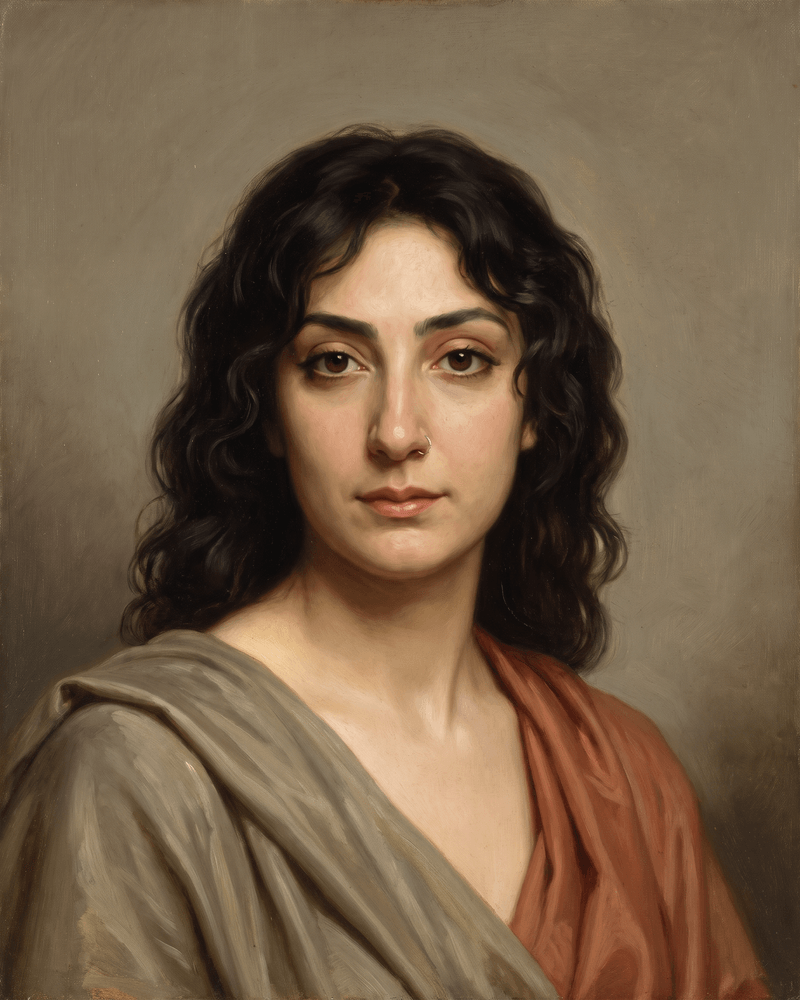
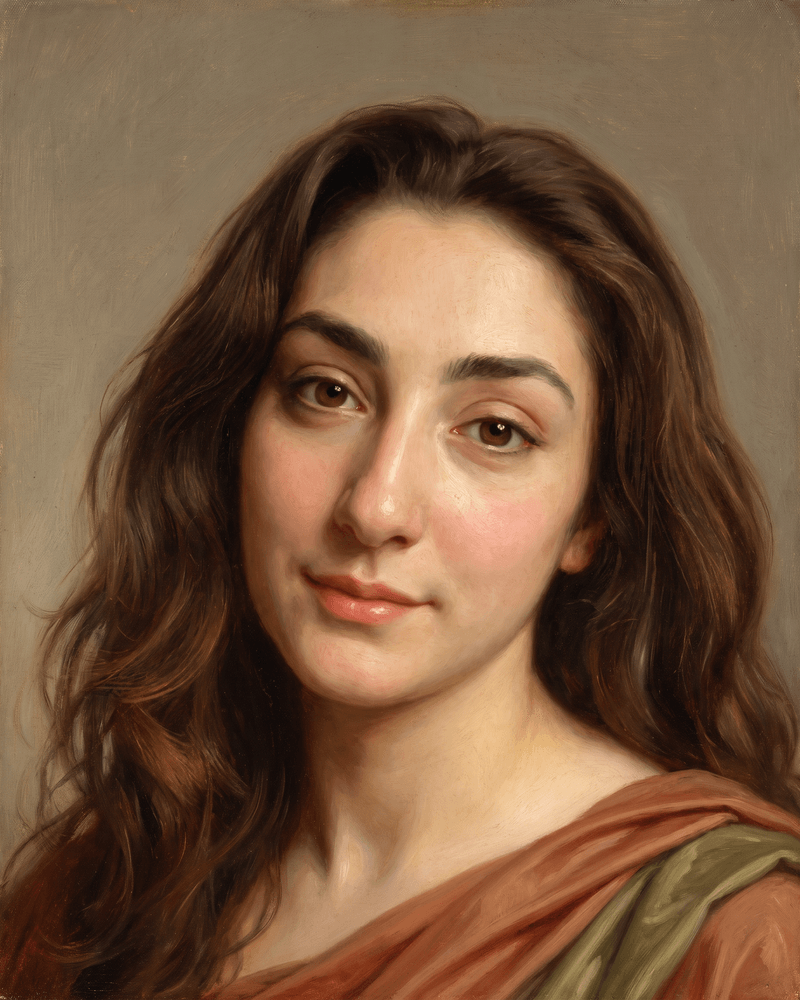
Merve Ceylan's portrait, chosen from fourteen (#8)
Seven photographs, each painted twice — once on the template alone and
once with a note about light and finish — and this is the one she and
the OC picked.

The note is recorded in docs/art-direction.md with the thing the
experiment turned up, which is worth more than the portrait: painted
with it, all seven photographs came back as nearly the same face, and
one of them turned her hair red. Without it they stayed seven
distinguishable people. "Do not idealise, do not beautify" is in the
template because flattering a face makes this model drift towards a
face it already knows how to paint. This note survived because one of
the seven kept her, not because it improved the other six.

The source photograph in assets/source-photos/ is the crop that
actually produced this master, so the run reproduces.

Unapproved, like the other fifteen — ADR-0002 gates going live on each
member seeing their own and saying yes, and this is the second time
hers has changed.

Claude-Session: https://claude.ai/code/session_016HzvPiGZfjWCBGEdYtvgmg

diff --git a/docs/art-direction.md b/docs/art-direction.md
@@ -289,6 +289,9 @@ A note is for where the photograph misleads about the person, and the two that e
 
 - **`furkan-ucar`** — his photograph is taken in a cap, so the model had nothing above the eyebrows and invented ginger hair and a full beard. The note says he is bald.
 - **`burcu-ozdemir`** — the note fixes her pose, not her face; see "A finished portrait can be the reference" below. Six attempts from four different photographs all lost either the expression or the hair, and the one everybody preferred turned out to be the very first, which only needed straightening.
+- **`merve-ceylan`** — the note is about light and finish, not features: _"Light and finish her the way a portrait painter flatters a sitter: a soft warm key from the left with gentle fill and no harsh shadow, luminous skin, a delicate blended finish, and a warm glow through the cheeks and lips — while keeping the bone structure, the features, their proportions and every mark of the face precisely as the reference shows them."_ Chosen from seven photographs painted twice over, once plain and once with this note.
+
+  **What that experiment showed, and it is the reason this note is worth reading before writing another one.** The same seven photographs, painted with the note, came back as seven near-identical faces: the same nose, the same mouth, the same rosy cheeks. Without it they stayed seven distinguishable people, each tracking its own photograph. One of the seven also turned her hair red. The template's "do not idealise, do not beautify" is not squeamishness — asking this model to flatter a face makes it drift towards a face it already knows how to paint, and the likeness is what pays. The note survived here because one of the seven kept her, not because the note improved six of them. If you write another like it, paint both ways and compare before choosing.
 
 **A finished portrait can be the reference.** Where a painting has the likeness but the sitter is turned, tilted or off-centre, hand that painting back in as the reference and let the note change only the pose: face the viewer square on, head level, shoulders even, centred. The likeness survives because it is no longer being derived a second time — it is being carried. This is how `burcu-ozdemir` reached the wall: her original portrait was the warmest of six attempts and the only one anybody preferred, but she sat tilted and turned while the other fifteen sit straight. Repainting from photographs kept costing the expression; reposing the painting cost nothing.
 
